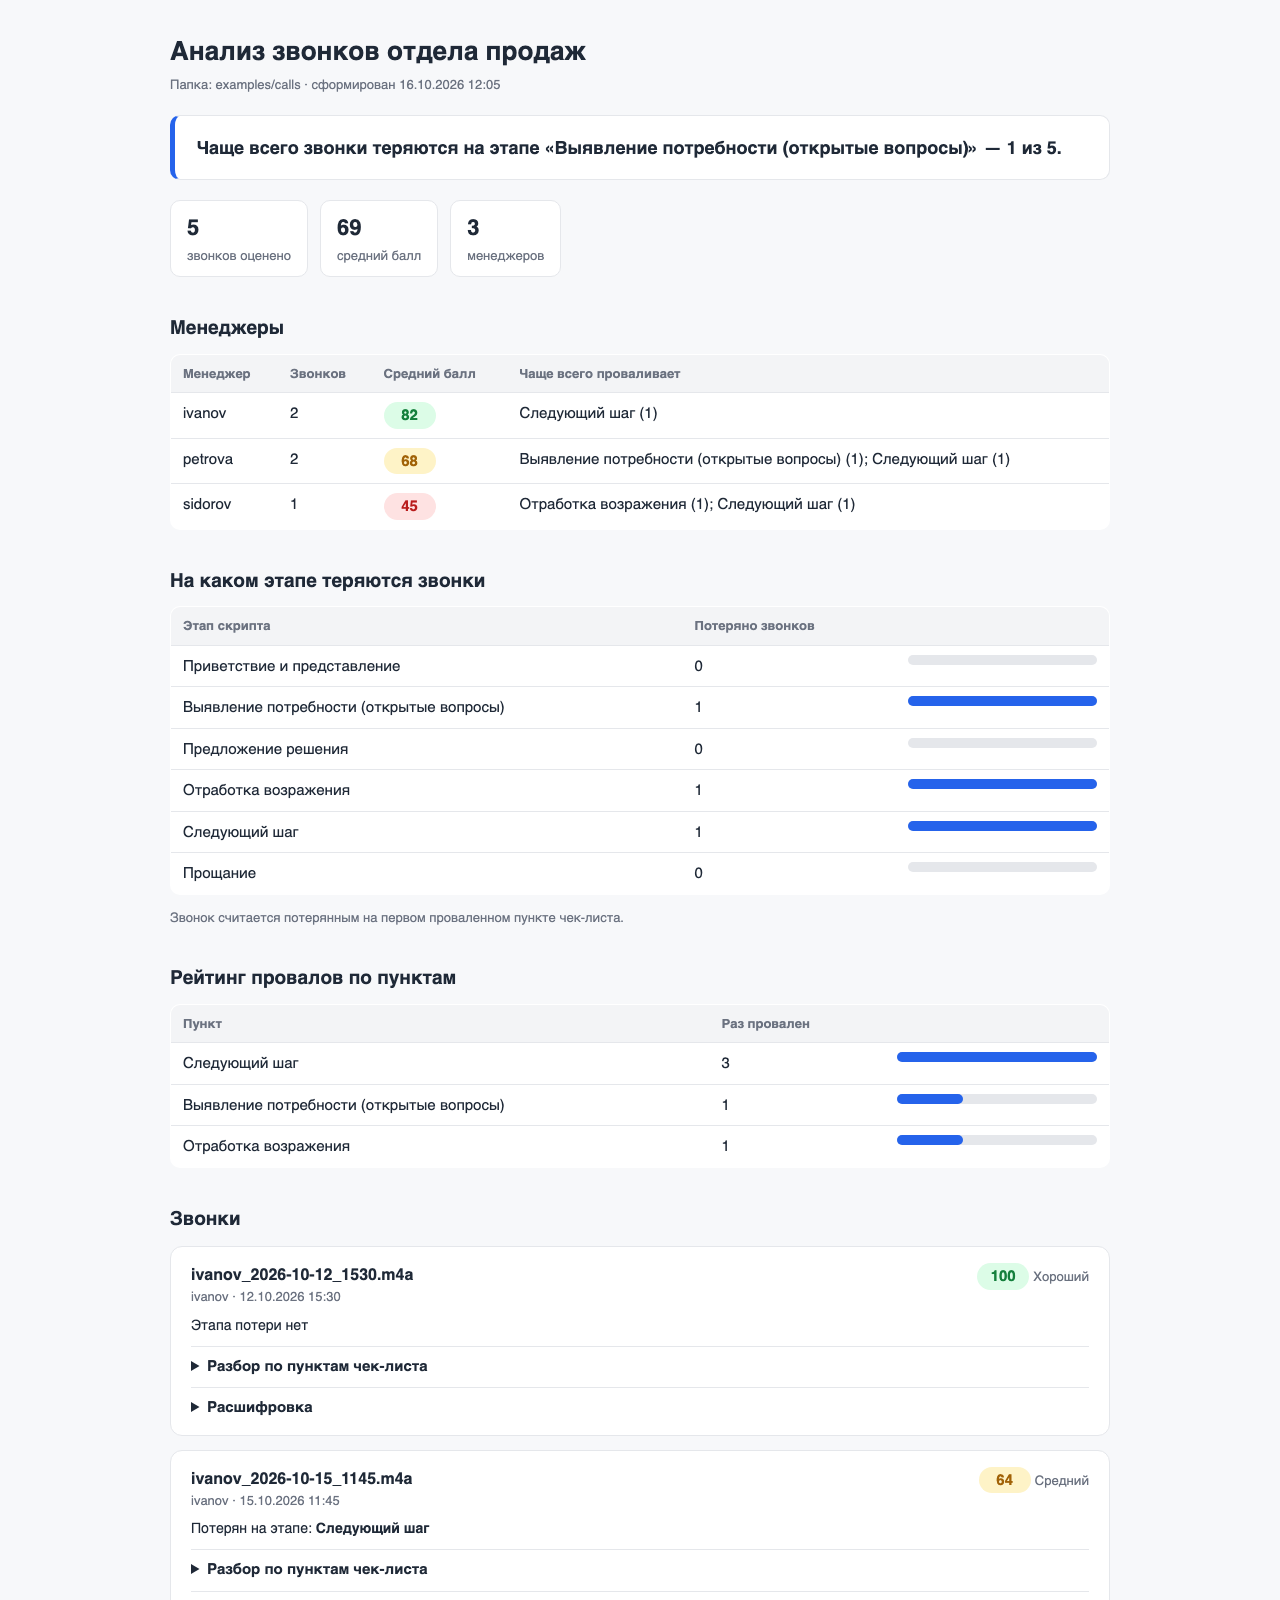
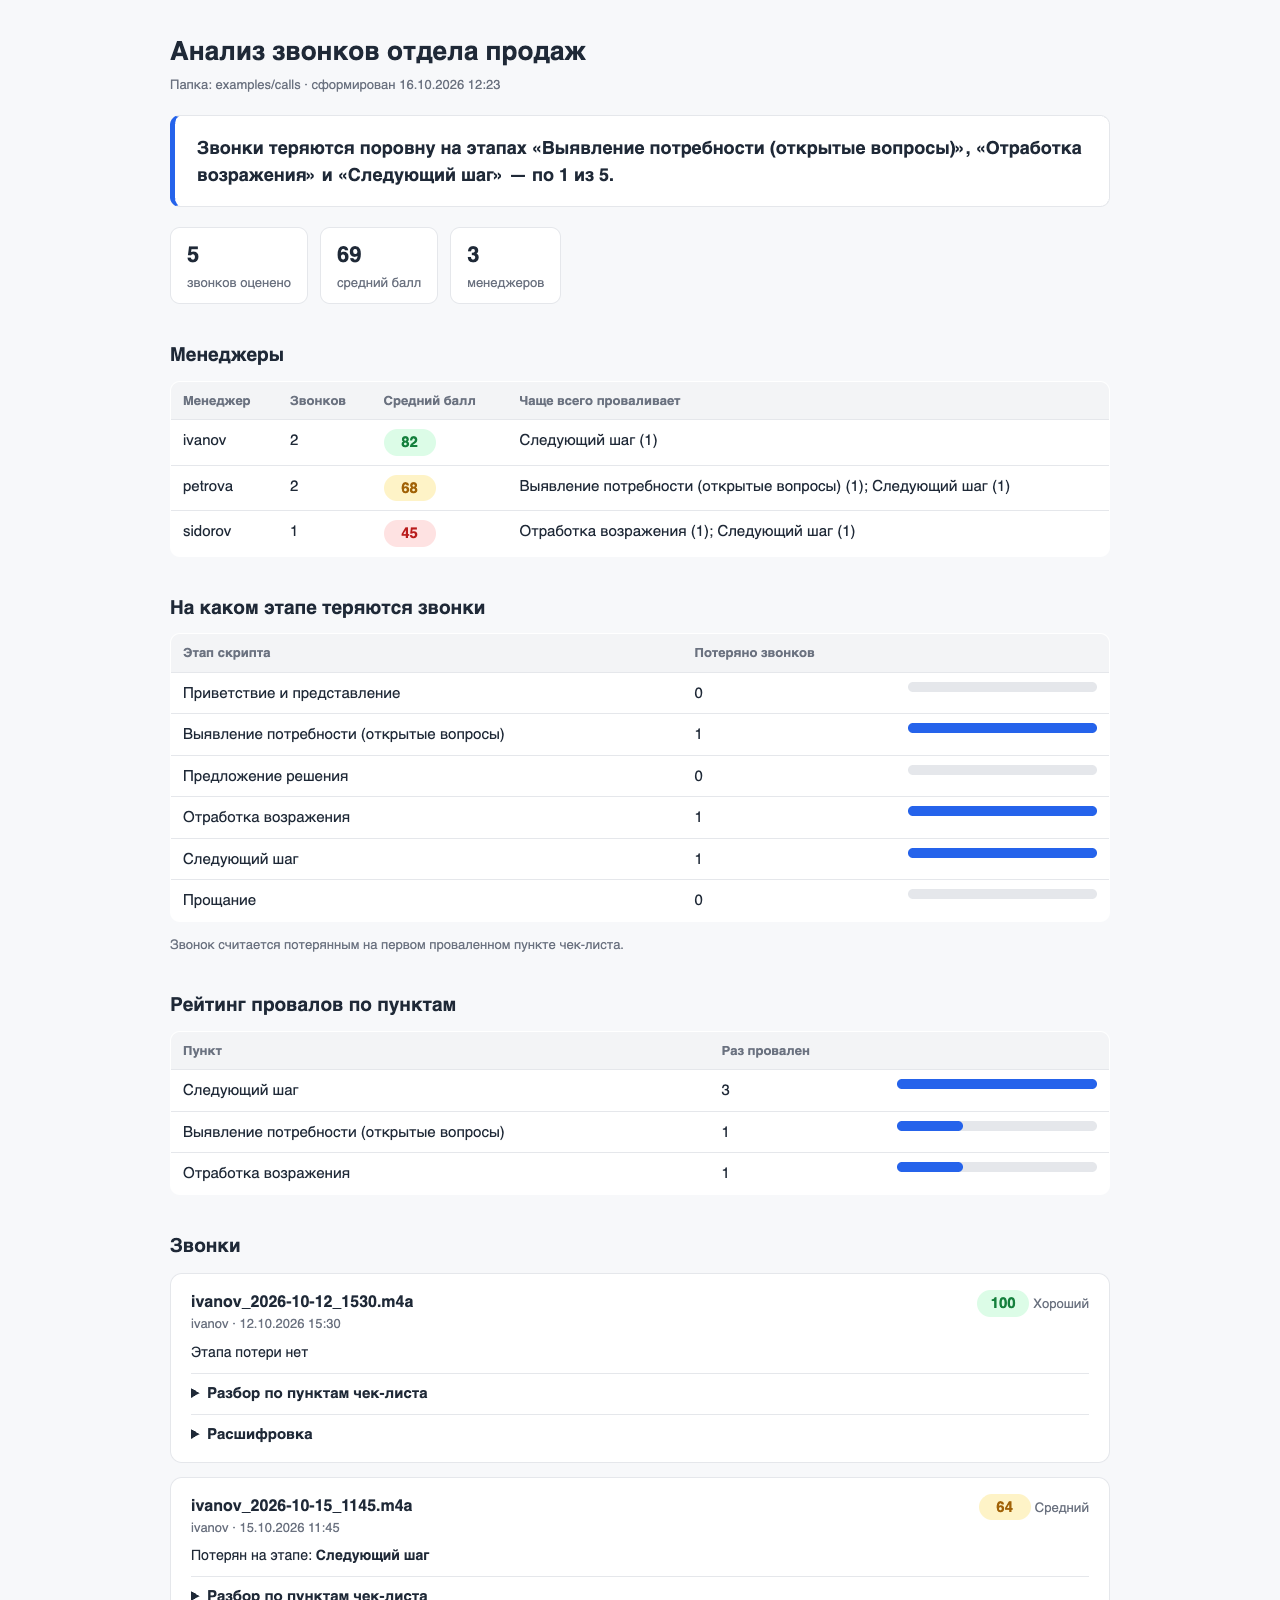
F2: общий вывод называет все этапы при равенстве
Autopilot-Run: 2026-10-16-callscope-mvp
Requirements: R14

diff --git a/examples/report/report.html b/examples/report/report.html
@@ -49,9 +49,9 @@ details>*{display:block !important}details{display:block}summary{list-style:none
 <body>
 <main>
 <h1>Анализ звонков отдела продаж</h1>
-<div class="muted">Папка: examples/calls · сформирован 16.10.2026 12:05</div>
+<div class="muted">Папка: examples/calls · сформирован 16.10.2026 12:23</div>
 
-<div class="conclusion">Чаще всего звонки теряются на этапе «Выявление потребности (открытые вопросы)» — 1 из 5.</div>
+<div class="conclusion">Звонки теряются поровну на этапах «Выявление потребности (открытые вопросы)», «Отработка возражения» и «Следующий шаг» — по 1 из 5.</div>
 
 <div class="kpis">
 <div class="kpi"><b>5</b><span class="muted">звонков оценено</span></div>
@@ -415,8 +415,8 @@ details>*{display:block !important}details{display:block}summary{list-style:none
 <div class="item">
 <span class="st failed">Провален</span><b>Отработка возражения</b>
 
-<div class="muted">Возражение «Тишина, у нас рядом дорога.» без ответа по существу: в следующих 2 реплики менеджера нет фраз отработки («скидка», «рассрочка», «гарантия», «выгода»…).</div>
-<blockquote>00:17 · Клиент: «Тишина, у нас рядом дорога.»</blockquote><blockquote>00:20 · Менеджер: «Тогда я рекомендую двухкамерный пластиковый профиль, он хорошо глушит шум.»</blockquote><blockquote>00:29 · Менеджер: «Три окна выйдут примерно в 45 тысяч рублей.»</blockquote>
+<div class="muted">Возражение «Ой, дороговато, я пока подумаю.» без ответа по существу: в следующих 2 реплики менеджера нет фраз отработки («скидка», «рассрочка», «гарантия», «выгода»…).</div>
+<blockquote>00:32 · Клиент: «Ой, дороговато, я пока подумаю.»</blockquote><blockquote>00:36 · Менеджер: «Но, это наша цена, дешевле не получится.»</blockquote><blockquote>00:43 · Менеджер: «Хорошо, до свидания.»</blockquote>
 </div>
 
 <div class="item">

diff --git a/src/callscope/aggregate.py b/src/callscope/aggregate.py
@@ -52,12 +52,15 @@ def _conclusion(
 ) -> str:
     if total == 0:
         return "Нет оценённых звонков — выводов сделать нельзя."
-    best = max(loss, key=lambda p: p[1], default=None)  # первый максимум — по порядку чек-листа
-    if best is None or best[1] == 0:
+    top = max((n for _, n in loss), default=0)
+    if top == 0:
         return "Потерь не найдено: во всех звонках выполнены все применимые пункты чек-листа."
     titles = {i.id: i.title for i in checklist.items}
-    title = titles.get(best[0], best[0])
-    return f"Чаще всего звонки теряются на этапе «{title}» — {best[1]} из {total}."
+    leaders = [f"«{titles.get(item_id, item_id)}»" for item_id, n in loss if n == top]
+    if len(leaders) == 1:
+        return f"Чаще всего звонки теряются на этапе {leaders[0]} — {top} из {total}."
+    names = ", ".join(leaders[:-1]) + " и " + leaders[-1]
+    return f"Звонки теряются поровну на этапах {names} — по {top} из {total}."
 
 
 def build_summary(

diff --git a/tests/test_aggregate.py b/tests/test_aggregate.py
@@ -93,6 +93,20 @@ def test_conclusion_names_stage_and_share():
     assert s.conclusion == "Чаще всего звонки теряются на этапе «Выявление потребности» — 2 из 5."
 
 
+def test_conclusion_names_all_tied_stages():
+    s = build([
+        make_call("a", 70, ("greeting",)),
+        make_call("b", 70, ("need",)),
+        make_call("c", 70, ("next_step",)),
+        make_call("d", 100, ()),
+        make_call("e", 100, ()),
+    ])
+    assert s.conclusion == (
+        "Звонки теряются поровну на этапах «Приветствие», «Выявление потребности» "
+        "и «Следующий шаг» — по 1 из 5."
+    )
+
+
 def test_conclusion_without_failures():
     s = build([make_call("ivanov", 100, ())])
     assert s.conclusion.startswith("Потерь не найдено")
